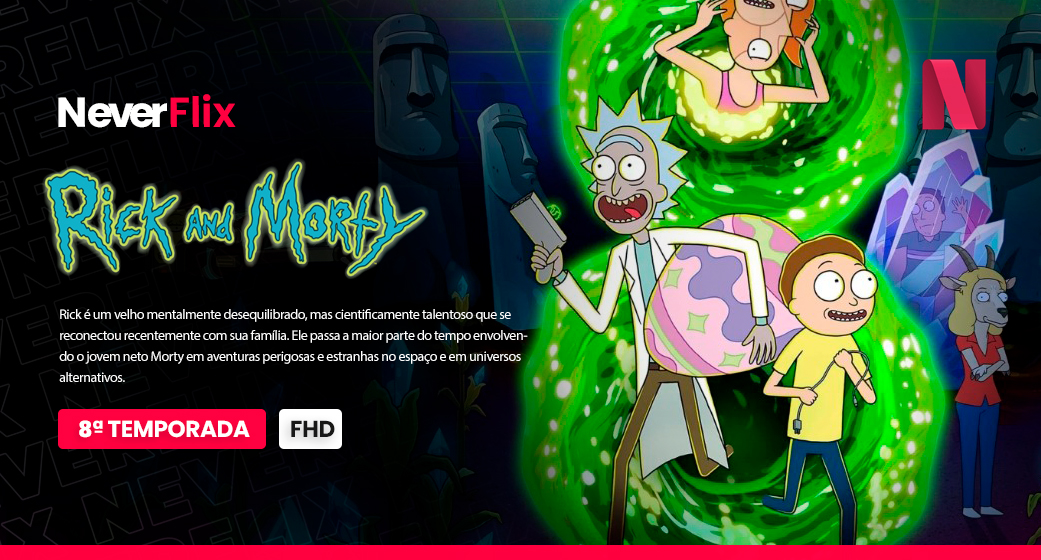
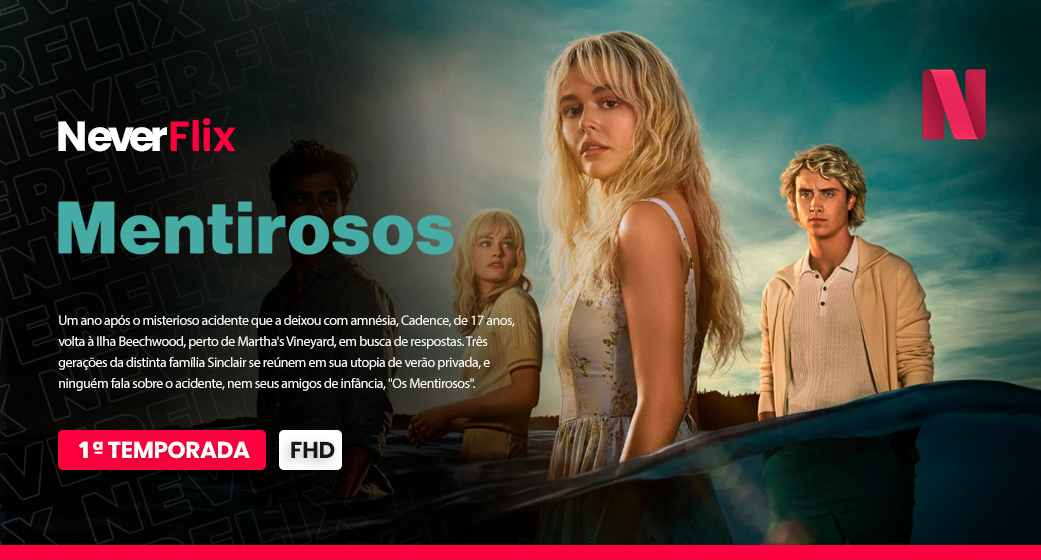
ajuste slide principal

diff --git a/index.html b/index.html
@@ -31,7 +31,7 @@
     <div class="bbb">
         <div class="banner-carousel">
             <div class="banner-slide active">
-                <img src="images/ban7.jpg" alt="Slide 1">
+                <img src="images/ban1.jpg" alt="Slide 1">
                 <div class="banner-content">
                     <h1></h1>
                     <p><span class="prime-icon"></span> </p>
@@ -39,7 +39,7 @@
             </div>
 
             <div class="banner-slide">
-                <img src="images/ban5.jpg" alt="Slide 2">
+                <img src="images/ban2.jpg" alt="Slide 2">
                 <div class="banner-content">
                     <h1></h1>
                     <p></p>
@@ -47,7 +47,23 @@
             </div>
 
             <div class="banner-slide">
-                <img src="images/ban6.jpg" alt="Slide 3">
+                <img src="images/ban3.jpg" alt="Slide 3">
+                <div class="banner-content">
+                    <h1></h1>
+                    <p></p>
+                </div>
+            </div>
+
+            <div class="banner-slide">
+                <img src="images/ban4.jpg" alt="Slide 3">
+                <div class="banner-content">
+                    <h1></h1>
+                    <p></p>
+                </div>
+            </div>
+
+            <div class="banner-slide">
+                <img src="images/ban5.jpg" alt="Slide 3">
                 <div class="banner-content">
                     <h1></h1>
                     <p></p>
@@ -57,6 +73,8 @@
 
         <div class="banner-dots">
             <span class="dot active"></span>
+            <span class="dot"></span>
+            <span class="dot"></span>
             <span class="dot"></span>
             <span class="dot"></span>
         </div>
@@ -75,7 +93,7 @@
       <div class="carousel-track">
         <!-- Repetição de imagens para efeito de loop infinito -->
         <div class="carousel-item"><img src="images/m1.jpg" alt="Black Mirror" /></div>
-        <div class="carousel-item"><img src="images/m9.jpg" alt="Attack on Titan" /></div>
+        <div class="carousel-item"><img src="images/m2.jpg" alt="Attack on Titan" /></div>
         <div class="carousel-item"><img src="images/m8.jpg" alt="Jessica Jones" /></div>
         <div class="carousel-item"><img src="images/m6.jpg" alt="On My Block" /></div>
         <div class="carousel-item"><img src="images/m5.jpg" alt="Children of the Whales" /></div>
